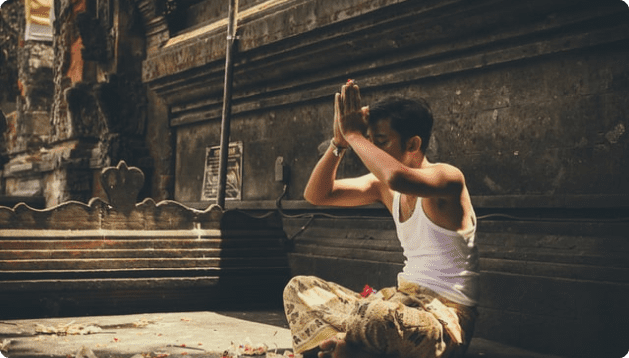
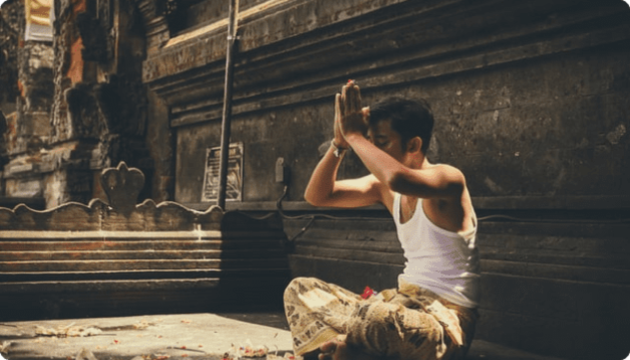
culture done

diff --git a/category_culture.html b/category_culture.html
@@ -313,25 +313,37 @@
       </div>
     </div>
     <div id="second_container" class="bg-circle-brown">
-      <div class="coutainer-fluid padding-image-top d-bloc px-4 px-sm-5">
+      <div class="second_container coutainer-fluid padding-image-top d-bloc px-4 px-sm-5">
         <div class="d-block d-lg-flex row">
           <div class="col-lg-6 col-12 py-lg-0 py-3">
-            <h1 class="t2">
-              Come on, to understand how multiple religions coexist together
-            </h1>
-            <p class="p1">
-              Malaysia is a multi-cultural society. Not only the food, clothing, and language but also the belief is much different. Each religion has its own method of praying and the story of its origin even the temple build history.
-            </p>
+            <div class="me-sm-5 me-0">
+              <h1 class="t2">
+                Come on, to understand how multiple religions coexist together
+              </h1>
+              <p class="p1">
+                Malaysia is a multi-cultural society. Not only the food, clothing, and language but also the belief is much different. Each religion has its own method of praying and the story of its origin even the temple build history.
+              </p>
+            </div>
           </div>
-          <img class="col-lg-6 col-12 ps-lg-0 ps-3" src="images/category_culture/second_container_img_1.png" alt="">
+          <div class="col-lg-6 col-12 ps-lg-0 ps-3 d-flex align-items-end">
+            <img class="w-100 " src="images/category_culture/second_container_img_1.png" alt="">
+          </div>
         </div>
-        <div class="d-flex py-3 row">
-          <img class="w-50" src="images/category_culture/second_container_img_2.png" alt="">
-          <img class="w-50 ps-0" src="images/category_culture/second_container_img_3.png" alt="">
+        <div class="d-flex py-md-4 py-2 row">
+          <div class="col-md-6 col-12 pt-md-0 pt-2">
+            <img class="w-100" src="images/category_culture/second_container_img_2.png" alt="" >
+          </div>
+          <div class="col-md-6 col-12 pt-md-0 pt-3">
+            <img class="w-100" src="images/category_culture/second_container_img_3.png" alt="">
+          </div>
         </div>
-        <div class="d-flex row">
-          <img class="w-50" src="images/category_culture/second_container_img_4.png" alt="">
-          <img class="w-50 ps-0" src="images/category_culture/second_container_img_5.png" alt="">
+        <div class="d-flex pb-md-4 py-2 row">
+          <div class="col-md-6 col-12 pt-md-0 pt-1">
+            <img class="w-100" src="images/category_culture/second_container_img_4.png" alt="">
+          </div>
+          <div class="col-md-6 col-12 pt-md-0 pt-3"> 
+          <img class="w-100" src="images/category_culture/second_container_img_5.png" alt="">
+          </div>
         </div>
       </div>
     </div>
@@ -340,7 +352,7 @@
         <h1 class="text-left ms-3 ms-sm-5">
           <i class="fa-solid fa-quote-left"></i> Is prayer your steering wheel or your spare tire? <i class="fa-solid fa-quote-right"></i>
         </h1>
-        <p class="text-left ms-md-5 ms-3 fs-3 pt-3 p3">- Corrie ten Boom</p>
+        <p class="text-left ms-md-5 ms-3 fs-2 pt-3 p3">- Corrie ten Boom</p>
       </div>
         <div class="position-relative pt-5">
           <img
@@ -378,8 +390,8 @@
           </div>         
           <div class="d-flex flex-column-reverse d-md-flex flex-md-row">
             <img class="col-md-6 col-12" src="images/category_culture/thrid_container_img_1.png" alt="">
-            <div class="col-md-6 col-12 ps-md-3 ps-0">
-              <img class="h-50 w-100 pb-3" src="images/category_culture/thrid_container_img_2.png" alt="">
+            <div class="col-md-6 col-12 ps-md-3 ps-0 ms-md-3 ms-0">
+              <img class="h-50 w-100 pb-3 mb-1" src="images/category_culture/thrid_container_img_2.png" alt="">
               <img class="h-50 w-100 pb-md-0 pb-3" src="images/category_culture/thrid_container_img_3.png" alt="">
             </div>
           </div>
@@ -401,7 +413,7 @@
                 <div class="content d-flex flex-column align-items-center justify-content-center">
                     <div>
                         <h5 class="card-title fs-2 fw-bold">Thean Hou Temple</h5>
-                        <p class="card-text fs-4">The Thean Hou Temple is a six-tiered temple of the Chinese sea goddess Mazu located in Kuala Lumpur, Malaysia.</p>
+                        <p class="card-text fs-3">The Thean Hou Temple is a six-tiered temple of the Chinese sea goddess Mazu located in Kuala Lumpur, Malaysia.</p>
                         <a href="culture_thean.html" class="btn btn-warning bg-btn-yellow fs-5 text-light">Read More</a>
                     </div>
                 </div>
@@ -415,7 +427,7 @@
                 <div class="content d-flex flex-column align-items-center justify-content-center">
                     <div>
                         <h5 class="card-title fs-2 fw-bold">Batu Caves</h5>
-                        <p class="card-text fs-4">Batu Caves is a limestone hill that has a series of caves and cave temples in Gombak, Selangor, Malaysia</p>
+                        <p class="card-text fs-3">Batu Caves is a limestone hill that has a series of caves and cave temples in Gombak, Selangor, Malaysia</p>
                         <a href="culture_batu.html" class="btn btn-warning bg-btn-yellow fs-5 text-light">Read More</a>
                     </div>
                 </div>
@@ -429,7 +441,7 @@
                 <div class="content d-flex flex-column align-items-center justify-content-center pt-sm-5">
                     <div>
                         <h5 class="card-title fs-2 fw-bold">Sultan Salahuddin Abdul Aziz Shah Mosque</h5>
-                        <p class="card-text fs-4">It is the country's largest mosque and also the second largest mosque in Southeast Asia by capacity.</p>
+                        <p class="card-text fs-3">It is the country's largest mosque and also the second largest mosque in Southeast Asia by capacity.</p>
                         <a href="culture_sultan.html" class="btn btn-warning bg-btn-yellow fs-5 text-light">Read More</a>
                     </div>
                 </div>

diff --git a/css/category_culture.css b/css/category_culture.css
@@ -145,10 +145,19 @@
     100% {transform: scale(1); color: #f08b54; left:30%}
 }
 
+.second_container img{
+    filter: grayscale(100%);
+}
+
+.second_container img:hover{
+    filter: grayscale(0%);
+    transition: 1s;
+}
+
 
 @media screen and (min-width: 3800px) {
     #second_container h1{
-        font-size: 1vw !important;
+        font-size: 2vw !important;
     }
 
     #second_container h2{
@@ -176,7 +185,7 @@
     }
     
     .padding-image-bwl{
-        padding-top: 8vw;
+        padding-top: 800px;
         padding-bottom: 2vw;
     }
 }
